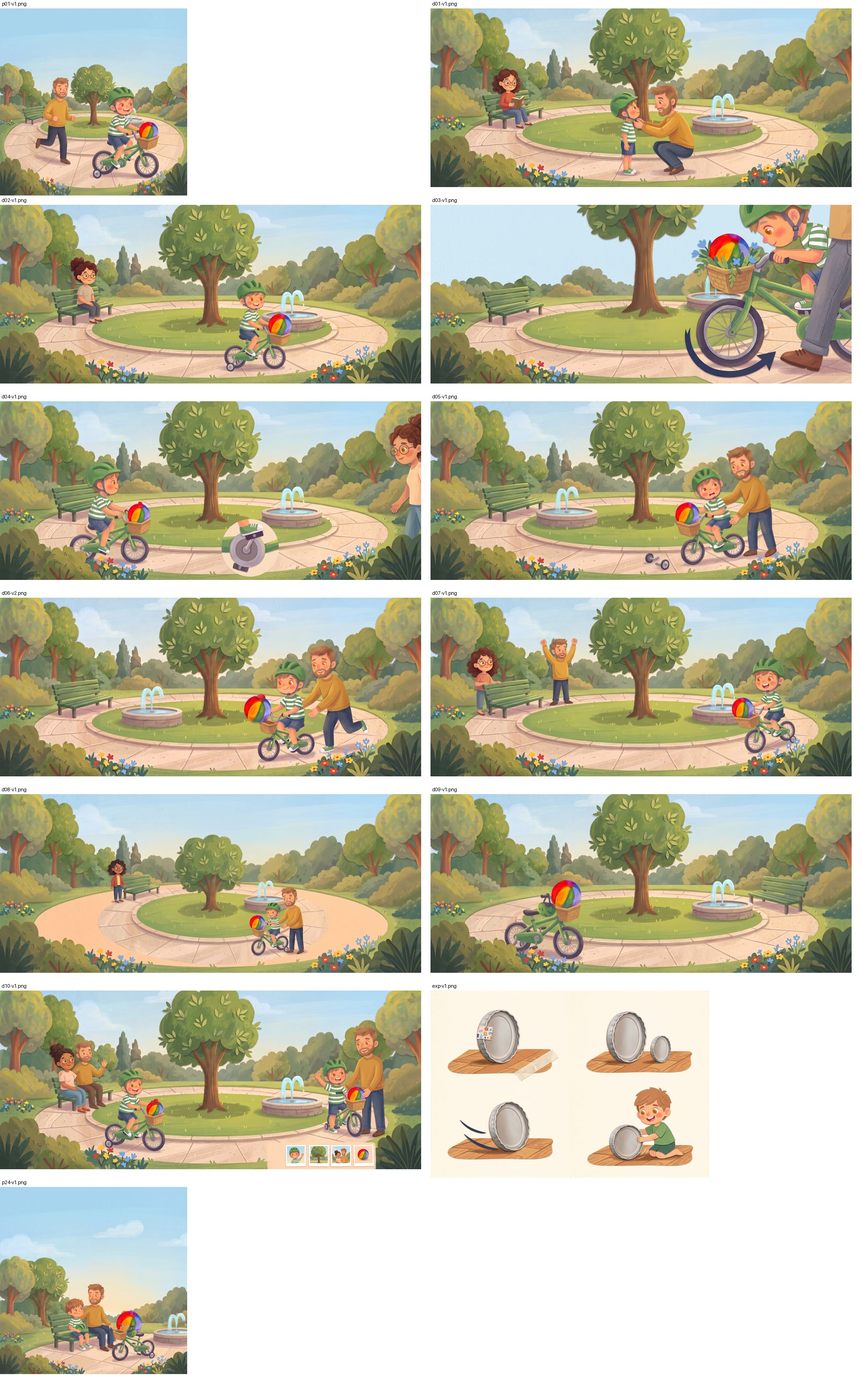
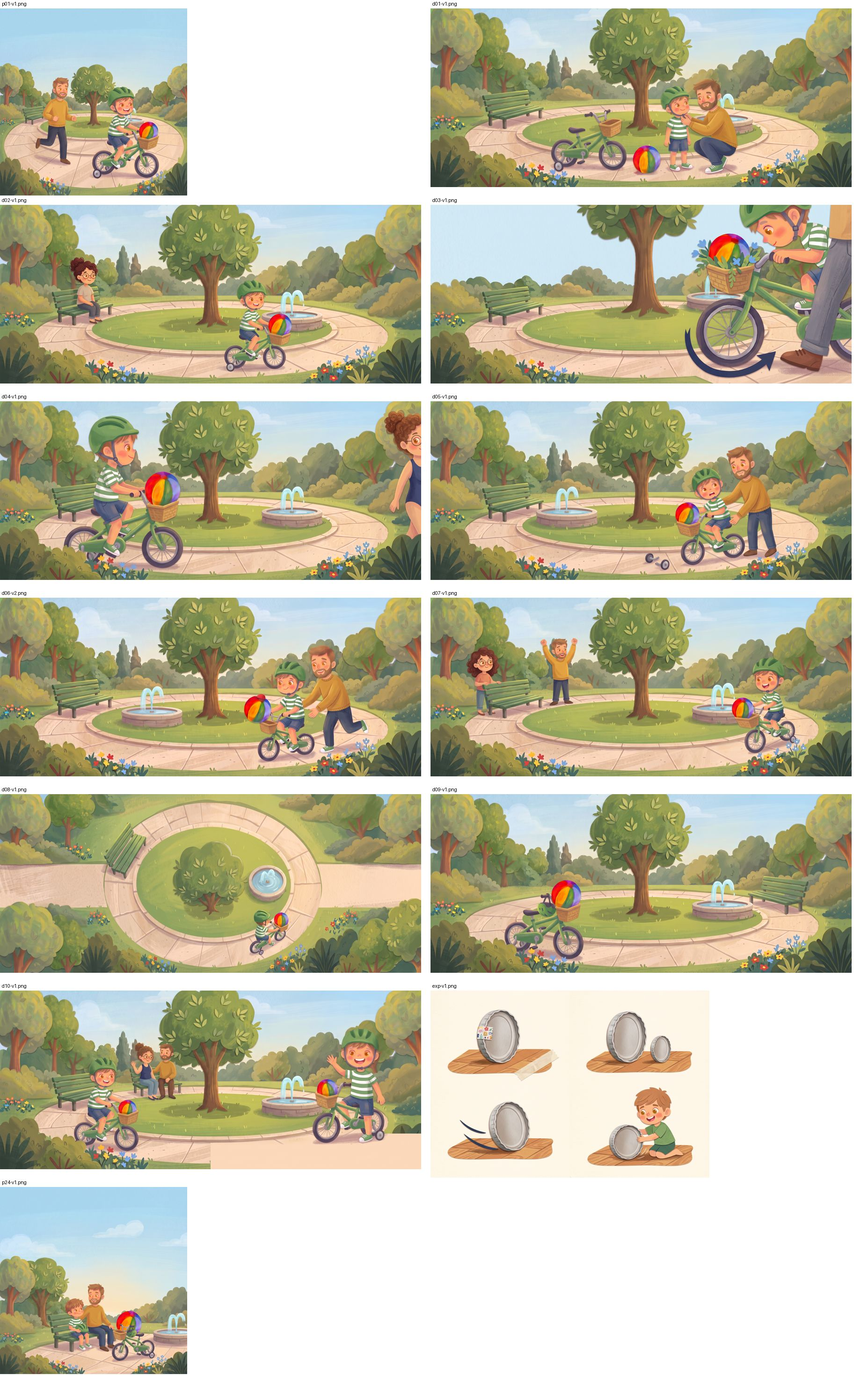
Libro 11: dobles 1, 4, 8 y 10 rehechas
Claude-Session: https://claude.ai/code/session_01D1pUKWwo8J3jsyg297Aijq

diff --git a/costos.md b/costos.md
@@ -170,7 +170,8 @@ Quedaban 571,5 créditos el 31/10/2026. El resto de los arreglos de la doble 8 (
 | 2 pruebas: portada y doble 6 (Nano Banana 2) | 24 |
 | Doble 6 corregida: sin rueditas y tapita de Rula más chica (edición) | 12 |
 | Lote: 11 páginas (Nano Banana 2) | 132 |
-| **Subtotal** | **192** |
+| Dobles 1, 4, 8 y 10 rehechas (Nano Banana 2) | 48 |
+| **Subtotal** | **240** |
 
 ## Lo que más encarece
 
